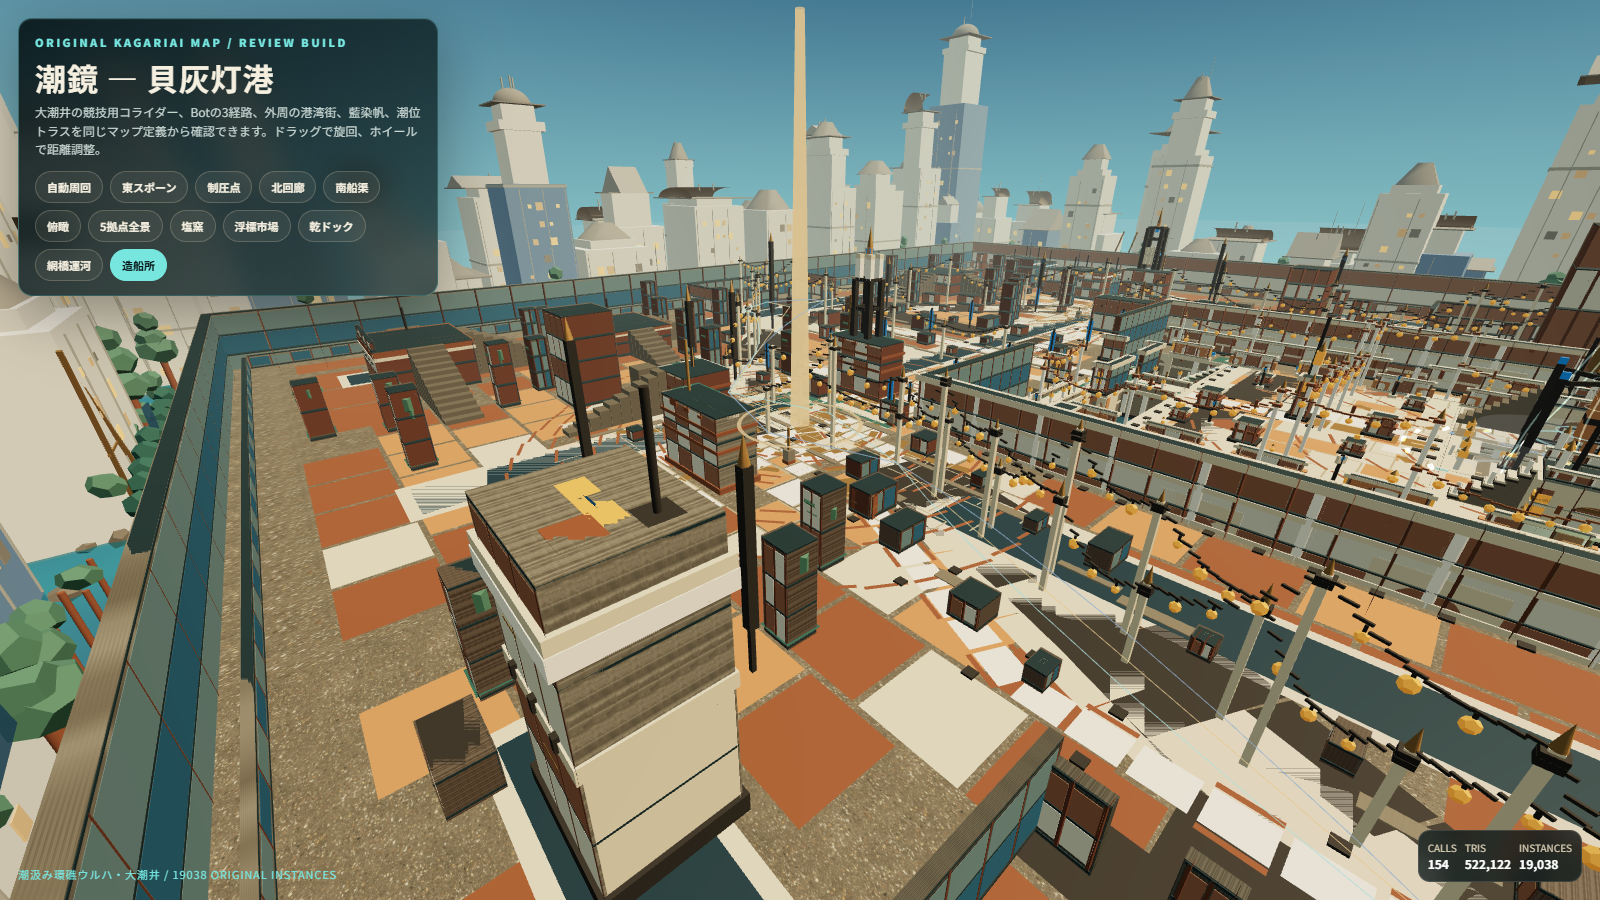
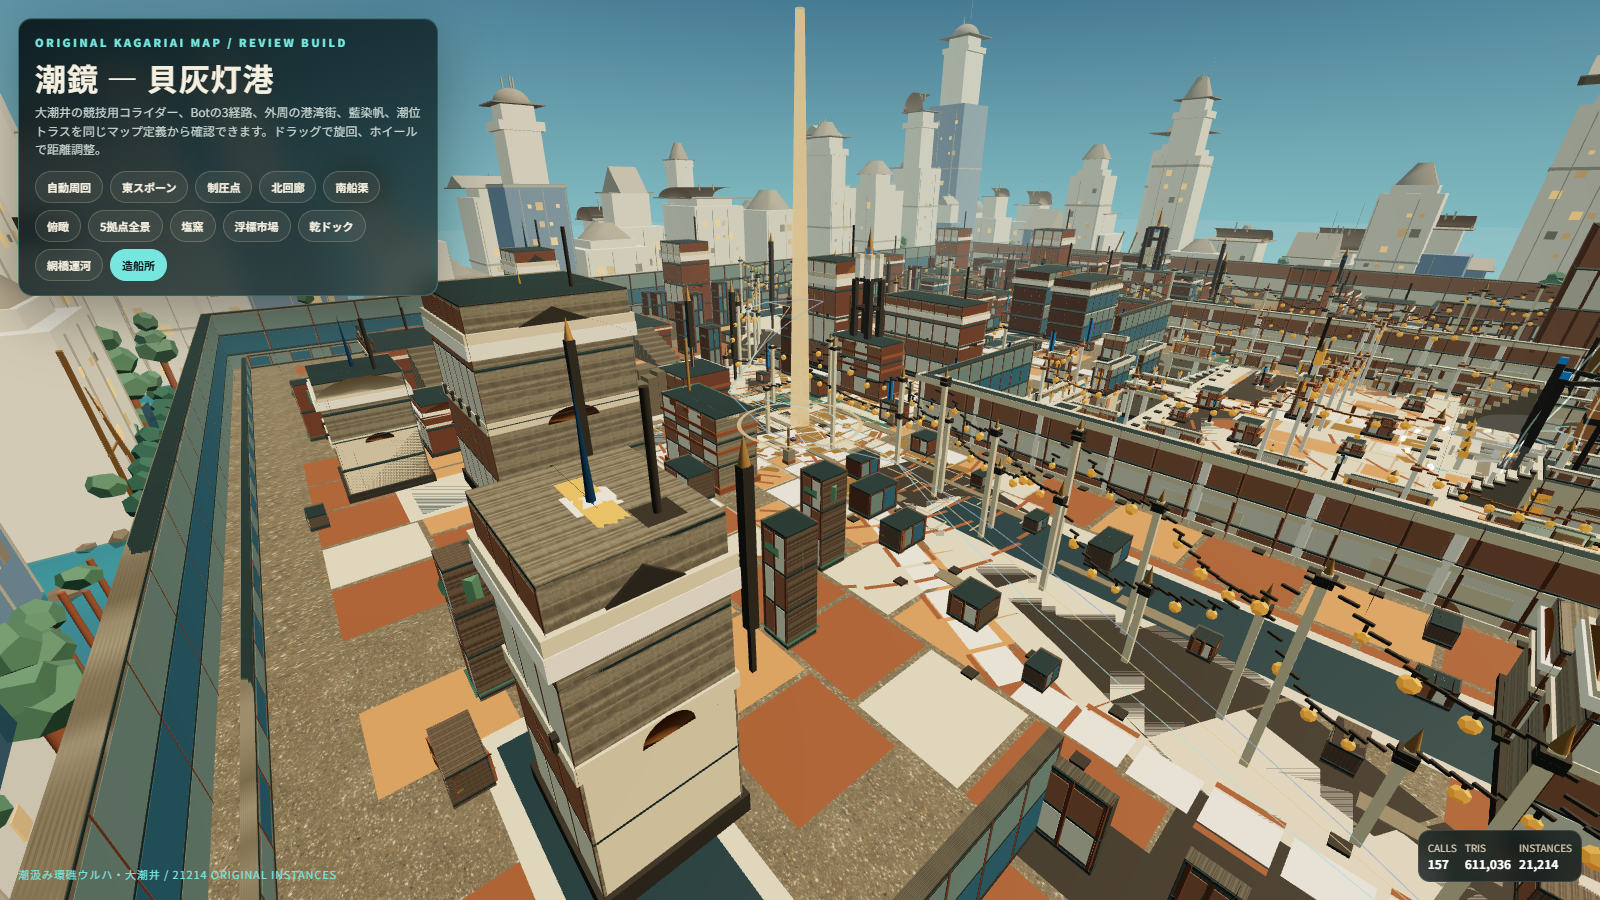
feat(map): P0-A - harbour buildings 23 to 75 via denser candidate grid
The candidate grid was the ceiling, not the clearance constants. Tightening
only the block pitch - BLOCK_PITCH_X 23 to 10, BLOCK_PITCH_Y 21 to 7 - raises
ring-store-* from 23 to 75. Two lines, no safety constant touched. The
pitch/yield curve is non-monotonic because of discrete grid aliasing against
BLOCK_W 14 / BLOCK_D 13, so the value came from an empirical sweep: pitch
19x17 gave fewer stores (22) than the 23x21 baseline.

This is the change the cladding vocabulary was waiting on. Walls, roofs,
eaves and arches now have three times the host surface, and the aerial view
reads as a built-up harbour ring. The central arena is untouched; every new
solid is ring-*.

Verified independently, unloaded:
- ring-store-* 23 to 75, map solids 1064 to 1150
- full suite exit 0, 875 dots, zero failures
- mirrored-matchup balance test passed, no iteration needed
- route safety 30/30, fake-cover clusters 0
- quality score 100/100, worst view 206/250 draw calls and
  614,256/1,200,000 triangles
- authored collision digest unchanged

Cost: presentation instances 19,059 to 21,214 against a 22,000 soft budget
(~41 cladding instances per store). The 786 margin means the next detail
passes must raise the soft budget deliberately or reuse existing instances.

Implemented by a Sonnet subagent, verified independently before commit.

diff --git a/shared/data/map_oshioi_ring_geometry.js b/shared/data/map_oshioi_ring_geometry.js
@@ -46,8 +46,8 @@ const RING_BANDS = [
   { id: 'south', x: [-40, 40], y: [-86, -40], ox: 17, oy: 12, seed: 0x53 },
 ];
 
-const BLOCK_PITCH_X = 23;
-const BLOCK_PITCH_Y = 21;
+const BLOCK_PITCH_X = 10;
+const BLOCK_PITCH_Y = 7;
 const BLOCK_W = 14;
 const BLOCK_D = 13;
 

diff --git a/outputs/AAA_MAP_EVIDENCE_20260802.md b/outputs/AAA_MAP_EVIDENCE_20260802.md
@@ -227,6 +227,41 @@ history:
 That is the next piece of work, and it touches collision, so it has to clear the
 mirrored-matchup balance test the same way the core trees failed to.
 
+## P0-A shipped: harbour buildings 23 → 75
+
+The candidate-grid ceiling described above was the fix. Tightening only the block
+pitch — `BLOCK_PITCH_X 23 → 10`, `BLOCK_PITCH_Y 21 → 7`, a two-line change with no
+safety constant touched — raised `ring-store-*` from 23 to 75. The pitch/yield
+relationship is non-monotonic (discrete grid aliasing against `BLOCK_W 14` /
+`BLOCK_D 13`), so the value was found by an empirical sweep, not a formula: pitch
+19×17 actually gave *fewer* stores (22) than the 23×21 baseline.
+
+Verified independently on an unloaded machine:
+
+| gate | result |
+|---|---|
+| `ring-store-*` | 23 → **75** |
+| map solids | 1,064 → 1,150 (canonical 175 + flash 192 + ring 783, all `ring-*`) |
+| full source suite | exit 0, 875 dots, zero `F`/`X` |
+| mirrored-matchup balance (`three competitive matchups`) | **pass**, no iteration needed |
+| route safety | 30/30, zero unsafe segments |
+| fake-cover clusters | 0 |
+| map quality score | 100/100 |
+| worst-view budget | 206/250 draw calls, 614,256/1,200,000 triangles |
+| authored collision digest | unchanged |
+
+The aerial view now reads as a built-up harbour ring instead of a sparse one;
+the central arena is untouched. This is the change the whole cladding vocabulary
+was waiting on — walls, roofs, eaves, and arches now have three times the surface
+to land on.
+
+One real cost surfaced: presentation instances rose 19,059 → 21,214 against the
+soft budget of 22,000 (hard 24,000). Each store pulls ~41 cladding instances. The
+786-instance margin means P0-B (eye-level detail) and P1-A (curved silhouette)
+must either raise the soft budget deliberately or spend their triangles on
+existing instances rather than new ones. A denser 81-store config (pitch 8×5) was
+measured but left only 511 margin and was not shipped.
+
 ## Art observations from the captured views — for the human art pass
 
 These are recorded, not acted on. The map is dense and heavily pinned by tests, so
